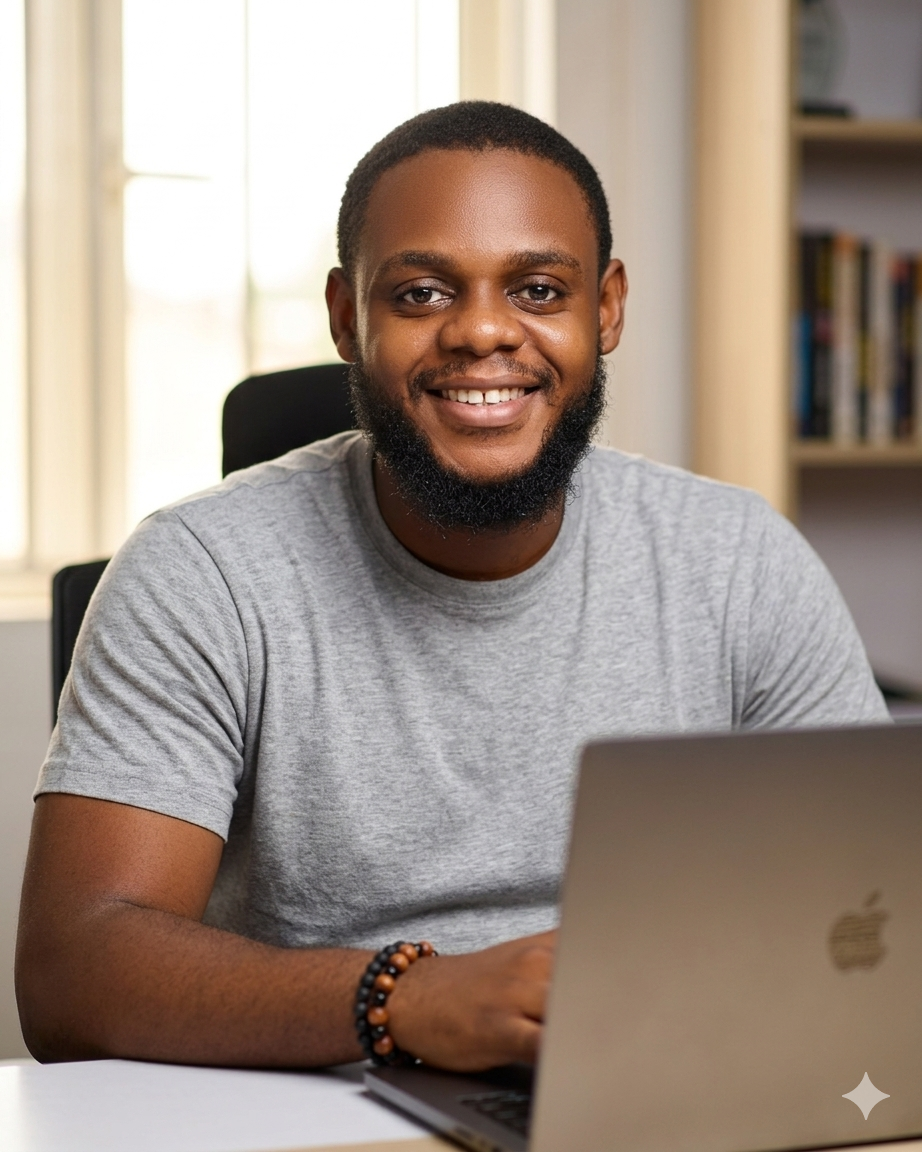
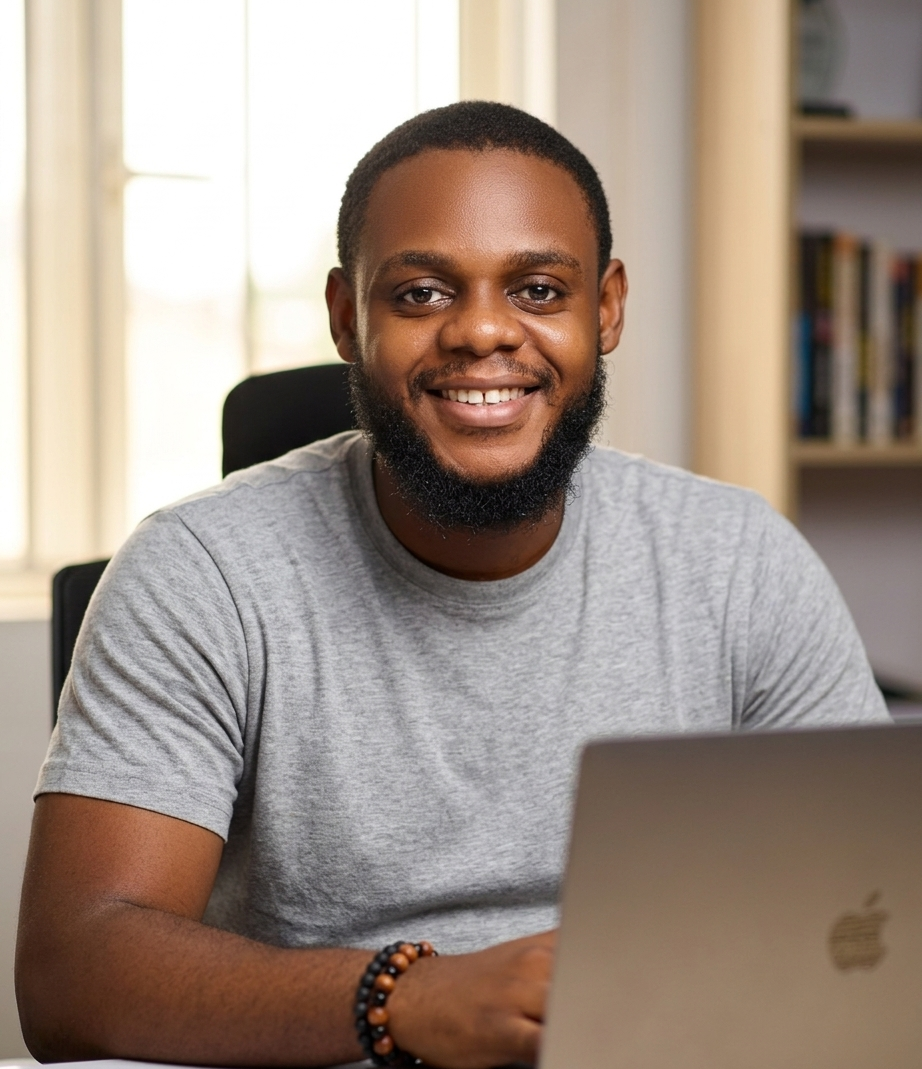
Implement gallery lightbox, rename to Graphic Designs, and update services layout

diff --git a/style.css b/style.css
@@ -1118,9 +1118,11 @@ nav a:hover {
 }
 
 .gallery-item {
+    position: relative;
     border-radius: 12px;
     overflow: hidden;
     border: 1px solid rgba(255, 255, 255, 0.05);
+    cursor: pointer;
 }
 
 .gallery-item img {
@@ -1131,8 +1133,92 @@ nav a:hover {
     transition: transform 0.5s ease;
 }
 
+.gallery-overlay {
+    position: absolute;
+    inset: 0;
+    background: rgba(0, 180, 216, 0.4);
+    display: flex;
+    align-items: center;
+    justify-content: center;
+    opacity: 0;
+    transition: var(--transition);
+    font-size: 2rem;
+    color: white;
+}
+
+.gallery-item:hover .gallery-overlay {
+    opacity: 1;
+}
+
 .gallery-item:hover img {
-    transform: scale(1.05);
+    transform: scale(1.1);
+}
+
+/* ===== Lightbox ===== */
+.lightbox-overlay {
+    background: rgba(0, 0, 0, 0.98);
+    z-index: 10000;
+}
+
+.lightbox-content {
+    position: relative;
+    max-width: 90vw;
+    max-height: 85vh;
+    display: flex;
+    flex-direction: column;
+    align-items: center;
+}
+
+.lightbox-content img {
+    max-width: 100%;
+    max-height: 85vh;
+    border-radius: 8px;
+    box-shadow: 0 0 50px rgba(0, 0, 0, 0.5);
+    animation: zoomIn 0.3s ease-out;
+}
+
+@keyframes zoomIn {
+    from { transform: scale(0.9); opacity: 0; }
+    to { transform: scale(1); opacity: 1; }
+}
+
+.lightbox-close {
+    position: absolute;
+    top: -50px;
+    right: 0;
+    background: none;
+    border: none;
+    color: white;
+    font-size: 2rem;
+    cursor: pointer;
+}
+
+.lightbox-nav {
+    background: rgba(255, 255, 255, 0.05);
+    border: none;
+    color: white;
+    width: 60px;
+    height: 60px;
+    border-radius: 50%;
+    display: flex;
+    align-items: center;
+    justify-content: center;
+    font-size: 2rem;
+    cursor: pointer;
+    transition: var(--transition);
+    margin: 0 2rem;
+}
+
+.lightbox-nav:hover {
+    background: var(--primary-color);
+    color: var(--dark-bg);
+}
+
+.image-counter {
+    margin-top: 1.5rem;
+    color: var(--text-muted);
+    font-weight: 600;
+    letter-spacing: 1px;
 }
 
 .video-modal {

diff --git a/index.html b/index.html
@@ -126,8 +126,8 @@
     </section>
 
     <!-- Services Section -->
-    <section id="services" class="services reveal">
-        <div class="services-container">
+    <section id="services" class="services">
+        <div class="services-container reveal">
             <div class="services-header">
                 <h2>Services I Offer</h2>
             </div>
@@ -218,17 +218,17 @@
                     </div>
                 </div>
 
-                <!-- Card 3: Visual Designs (Formerly Church Flyer) -->
+                <!-- Card 3: Graphic Designs -->
                 <div class="project-card reveal" onclick="openProject('visual')">
                     <div class="card-image">
-                        <img src="assets/project_church_flyer.png" alt="Visual Designs">
+                        <img src="assets/BC.png" alt="Graphic Designs">
                         <div class="card-overlay">
                             <span class="view-label">View Gallery <i class="ph ph-images"></i></span>
                         </div>
                     </div>
                     <div class="card-info">
                         <span class="card-category">Visual Design</span>
-                        <h3 class="card-title">Visual Designs</h3>
+                        <h3 class="card-title">Graphic Designs</h3>
                     </div>
                 </div>
 
@@ -265,12 +265,14 @@
             'socials.png', 'we are active.png'
         ];
 
+        let currentImageIndex = 0;
+
         function openProject(id) {
             const youtubeUrl = 'https://youtu.be/kjHOmTWIGn8?si=GhdxyS0y6f0TzlDI';
             const projects = {
                 finance: { title: 'Finance App UI', category: 'UI/UX Design' },
                 landing: { title: 'Landing Page Design', category: 'Web Design' },
-                visual:  { title: 'Visual Designs', category: 'Visual Design', isGallery: true },
+                visual:  { title: 'Graphic Designs', category: 'Visual Design', isGallery: true },
                 video2:  { title: 'Promotional Video', category: 'Video Editing', isVideoModal: true, url: youtubeUrl }
             };
             const p = projects[id];
@@ -289,13 +291,34 @@
         function showGallery() {
             const modal = document.getElementById('galleryModal');
             const grid = document.getElementById('galleryGrid');
-            grid.innerHTML = galleryImages.map(img => `
-                <div class="gallery-item reveal">
-                    <img src="assets/gallery/${img}" alt="Visual Design" loading="lazy">
+            grid.innerHTML = galleryImages.map((img, index) => `
+                <div class="gallery-item reveal" onclick="openLightbox(${index})">
+                    <img src="assets/gallery/${img}" alt="Graphic Design" loading="lazy">
+                    <div class="gallery-overlay"><i class="ph ph-magnifying-glass-plus"></i></div>
                 </div>
             `).join('');
             modal.style.display = 'flex';
             document.body.style.overflow = 'hidden';
+        }
+
+        function openLightbox(index) {
+            currentImageIndex = index;
+            const lightbox = document.getElementById('lightboxModal');
+            updateLightbox();
+            lightbox.style.display = 'flex';
+        }
+
+        function updateLightbox() {
+            const img = document.getElementById('lightboxImage');
+            img.src = `assets/gallery/${galleryImages[currentImageIndex]}`;
+            document.getElementById('imageCounter').innerText = `${currentImageIndex + 1} / ${galleryImages.length}`;
+        }
+
+        function changeImage(direction) {
+            currentImageIndex += direction;
+            if (currentImageIndex < 0) currentImageIndex = galleryImages.length - 1;
+            if (currentImageIndex >= galleryImages.length) currentImageIndex = 0;
+            updateLightbox();
         }
 
         function showVideoModal(url, title) {
@@ -318,6 +341,15 @@
                 document.body.style.overflow = 'auto';
             }
         }
+
+        // Keyboard navigation for Lightbox
+        document.addEventListener('keydown', function(e) {
+            if (document.getElementById('lightboxModal').style.display === 'flex') {
+                if (e.key === 'ArrowLeft') changeImage(-1);
+                if (e.key === 'ArrowRight') changeImage(1);
+                if (e.key === 'Escape') closeModal('lightboxModal');
+            }
+        });
 
         // Back to Top functionality
         window.addEventListener('scroll', function() {
@@ -369,6 +401,17 @@
     <button id="backToTop" class="back-to-top" onclick="scrollToTop()" aria-label="Back to Top">
         <i class="ph ph-arrow-up"></i>
     </button>
+
+    <!-- Lightbox Modal -->
+    <div id="lightboxModal" class="modal-overlay lightbox-overlay">
+        <button class="lightbox-nav lightbox-prev" onclick="changeImage(-1)"><i class="ph ph-caret-left"></i></button>
+        <div class="lightbox-content">
+            <button class="lightbox-close" onclick="closeModal('lightboxModal')"><i class="ph ph-x"></i></button>
+            <img id="lightboxImage" src="" alt="Zoomed Design">
+            <div id="imageCounter" class="image-counter">1 / 15</div>
+        </div>
+        <button class="lightbox-nav lightbox-next" onclick="changeImage(1)"><i class="ph ph-caret-right"></i></button>
+    </div>
 
     <!-- Testimonials Section -->
     <section id="testimonials" class="testimonials reveal">